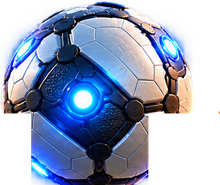
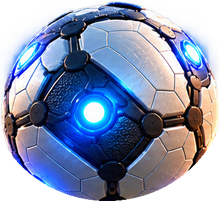
Fix cropped ball sprite and make goals actually happen
- Re-cropped ball.png using an elliptical alpha mask instead of
  rectangular corner-erasure, which had been slicing into the
  ball itself — it's now a full, uncropped sphere. Also draw it
  at its real aspect ratio instead of forcing a square box.
- Cars now aim their hits toward the opponent's goal (blended with
  the natural deflection angle) instead of just reflecting the
  ball randomly, hit harder, and the ball keeps more speed after
  being hit — goals were only a 0.34*H-tall target that cars never
  aimed for, so they essentially never happened. Also widened the
  goal mouth. Verified via a scripted run: a goal now fires within
  seconds of starting instead of not appearing at all.

Claude-Session: https://claude.ai/code/session_012wtLEgUSSK1iZPcpqDup8Q

diff --git a/matches/index.html b/matches/index.html
@@ -2155,10 +2155,10 @@ function tick(){
   var MAX_SPEED = 3.1, BOOST_SPEED = 5.6, TURN_RATE = 0.065, ACCEL = 0.16;
   var GOAL_H = 0; /* يُحسب عند resize */
 
-  function makeCar(img, startX, startY, faceAngle){
+  function makeCar(img, startX, startY, faceAngle, team){
     return {
       img: img, x: startX, y: startY, vx: 0, vy: 0,
-      angle: faceAngle,
+      angle: faceAngle, team: team,
       boostUntil: 0, nextBoostCheck: performance.now() + 1500 + Math.random() * 2000,
       flashUntil: 0
     };
@@ -2168,8 +2168,8 @@ function tick(){
 
   function startPositions(){
     ball = { x: W / 2, y: H / 2, vx: (Math.random() - 0.5) * 1.4, vy: (Math.random() - 0.5) * 1.4 };
-    carBlue = makeCar(imgBlue, W * 0.26, H * 0.5, 0);
-    carOrange = makeCar(imgOrange, W * 0.74, H * 0.5, Math.PI);
+    carBlue = makeCar(imgBlue, W * 0.26, H * 0.5, 0, "blue");
+    carOrange = makeCar(imgOrange, W * 0.74, H * 0.5, Math.PI, "orange");
     trail = [];
   }
 
@@ -2267,12 +2267,20 @@ function tick(){
 
     var dx = ball.x - car.x, dy = ball.y - car.y;
     var dist = Math.hypot(dx, dy);
-    var hitDist = CAR_W * 0.4 + BALL_R;
+    var hitDist = CAR_W * 0.46 + BALL_R;
     if (dist < hitDist && dist > 0.01) {
       var nx = dx / dist, ny = dy / dist;
-      var power = (boosting ? 7.5 : 4.5) + Math.hypot(car.vx, car.vy);
-      ball.vx += nx * power * 0.5;
-      ball.vy += ny * power * 0.5;
+      /* يميل الضرب نحو مرمى الخصم بدل الارتداد العشوائي البحت — لمحاكاة "تسديد" حقيقي */
+      var goalX = car.team === "blue" ? W : 0;
+      var gx = goalX - ball.x, gy = (H / 2) - ball.y;
+      var gd = Math.hypot(gx, gy) || 1;
+      gx /= gd; gy /= gd;
+      var aimX = nx * 0.45 + gx * 0.55, aimY = ny * 0.45 + gy * 0.55;
+      var aimLen = Math.hypot(aimX, aimY) || 1;
+      aimX /= aimLen; aimY /= aimLen;
+      var power = (boosting ? 8.5 : 5.5) + Math.hypot(car.vx, car.vy) * 1.3;
+      ball.vx += aimX * power * 0.55;
+      ball.vy += aimY * power * 0.55;
       var push = hitDist - dist;
       car.x -= nx * push; car.y -= ny * push;
       car.flashUntil = now + 160;
@@ -2282,7 +2290,7 @@ function tick(){
 
   function stepBall(){
     ball.x += ball.vx; ball.y += ball.vy;
-    ball.vx *= 0.992; ball.vy *= 0.992;
+    ball.vx *= 0.995; ball.vy *= 0.995;
 
     var goalTop = H / 2 - GOAL_H / 2, goalBottom = H / 2 + GOAL_H / 2;
 
@@ -2350,7 +2358,8 @@ function tick(){
     ctx.translate(ball.x, ball.y);
     ctx.rotate((ball.x + ball.y + now / 40) * 0.01);
     var r = BALL_R;
-    ctx.drawImage(imgBall, -r, -r, r * 2, r * 2);
+    var bh = r * 2 * (imgBall.naturalHeight / imgBall.naturalWidth || 1);
+    ctx.drawImage(imgBall, -r, -bh / 2, r * 2, bh);
     ctx.restore();
   }
 
@@ -2388,7 +2397,7 @@ function tick(){
     if (running) return;
     loadImages(function(){
       resize();
-      GOAL_H = Math.min(H * 0.34, 190);
+      GOAL_H = Math.min(H * 0.42, 230);
       resetEntities();
       running = true;
       canvas.classList.add("show");
@@ -2418,7 +2427,7 @@ function tick(){
     if (!running) return;
     var oldW = W, oldH = H;
     resize();
-    GOAL_H = Math.min(H * 0.34, 190);
+    GOAL_H = Math.min(H * 0.42, 230);
     if (ball) { ball.x = ball.x / oldW * W; ball.y = ball.y / oldH * H; }
     [carBlue, carOrange].forEach(function(c){ if (c) { c.x = c.x / oldW * W; c.y = c.y / oldH * H; } });
   });
